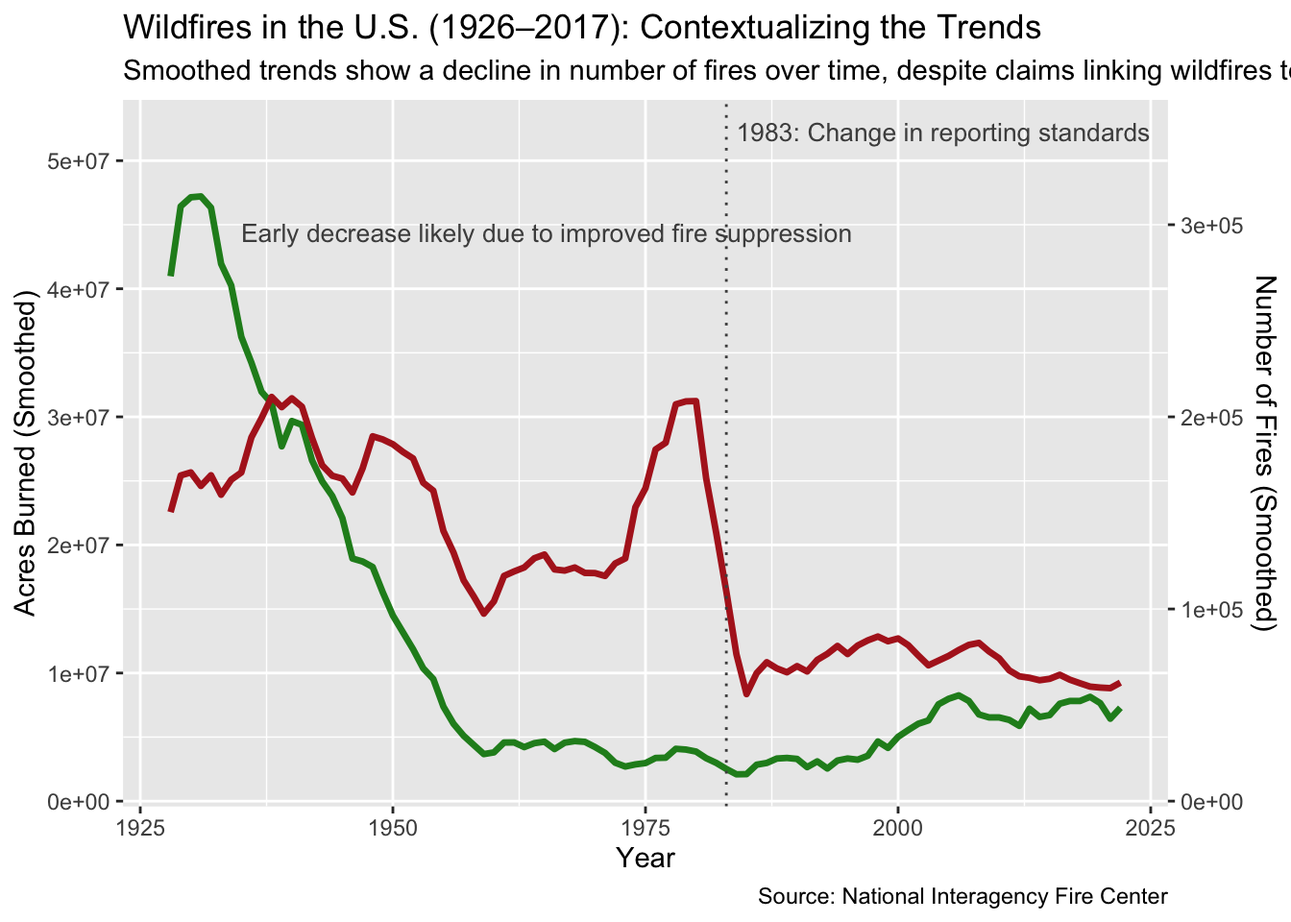
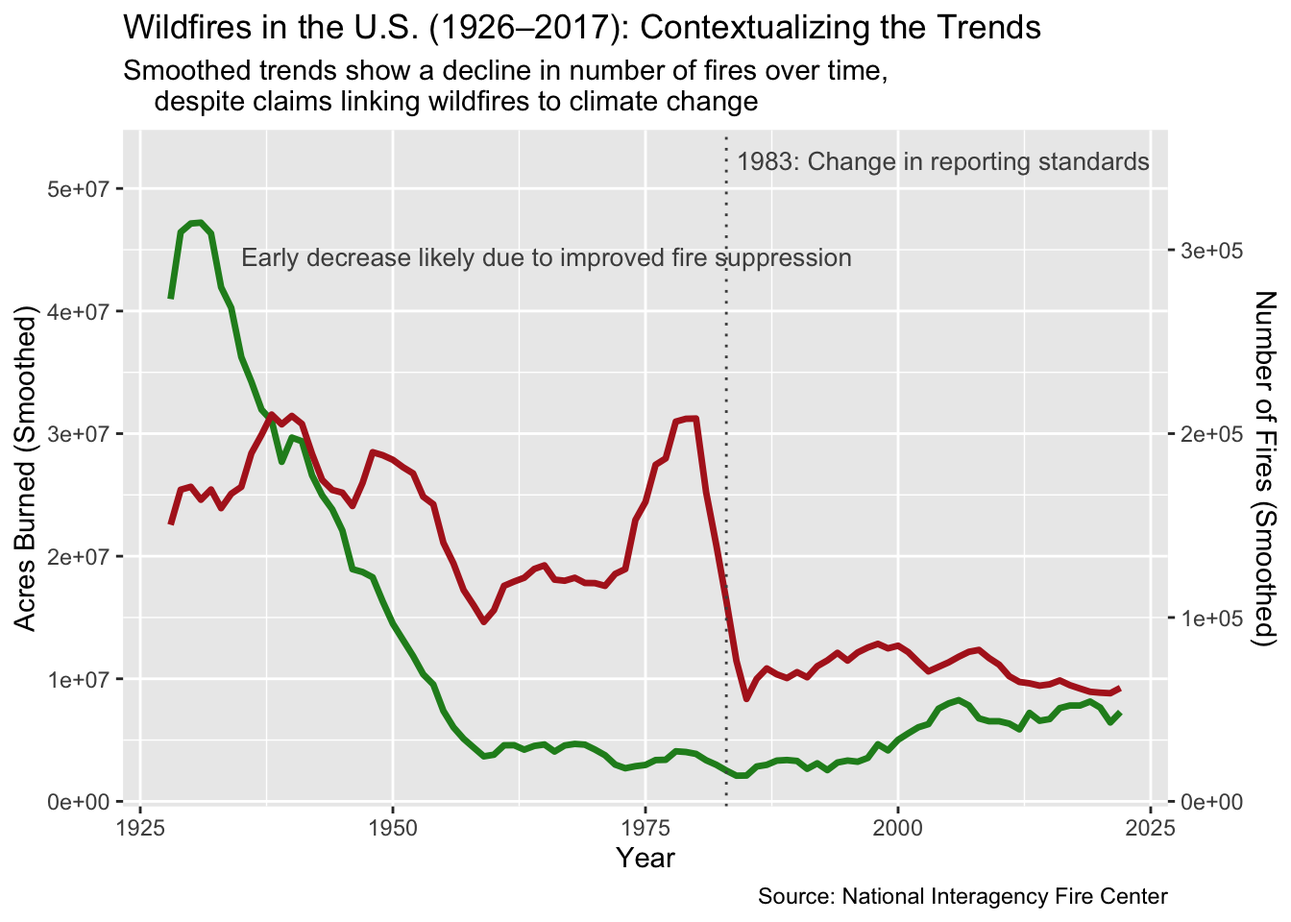
fix: change the style of names in author section

diff --git a/Project/project.html b/Project/project.html
@@ -6,7 +6,7 @@
 
 <meta name="viewport" content="width=device-width, initial-scale=1.0, user-scalable=yes">
 
-<meta name="author" content="SKYRA CHOO, TAY YONG JUN, PEH BOON YEW, HO KING HONH, SEAN LEE WEI CHUAN, MUHAMMAD SYAHMI BIN SAMRI">
+<meta name="author" content="P1 Team Mistyrose  Skyra Choo (2301185)   Tay Yong Jun (2300993)   Peh Boon Yew (2301057)   Ho King Honh (2301174)   Sean Lee Wei Chuan (2303423)   Syahmi Bin Samri (2301125)">
 
 <title>Visualizing Wildfire data in the USA (1926–2017)</title>
 <style>
@@ -90,7 +90,7 @@ pre > code.sourceCode > span > a:first-child::before { text-decoration: underlin
     <div>
     <div class="quarto-title-meta-heading">Author</div>
     <div class="quarto-title-meta-contents">
-             <p>SKYRA CHOO, TAY YONG JUN, PEH BOON YEW, HO KING HONH, SEAN LEE WEI CHUAN, MUHAMMAD SYAHMI BIN SAMRI </p>
+             <p><u>P1 Team Mistyrose</u> <br> Skyra Choo (2301185) <br> Tay Yong Jun (2300993) <br> Peh Boon Yew (2301057) <br> Ho King Honh (2301174) <br> Sean Lee Wei Chuan (2303423) <br> Syahmi Bin Samri (2301125) </p>
           </div>
   </div>
     
@@ -108,33 +108,13 @@ pre > code.sourceCode > span > a:first-child::before { text-decoration: underlin
 <p>Help me on this</p>
 <p>The following code requires the following packages:</p>
 <div class="cell">
-<div class="sourceCode cell-code" id="cb1"><pre class="sourceCode r code-with-copy"><code class="sourceCode r"><span id="cb1-1"><a href="#cb1-1" aria-hidden="true" tabindex="-1"></a><span class="fu">library</span>(tidyverse)</span></code><button title="Copy to Clipboard" class="code-copy-button"><i class="bi"></i></button></pre></div>
-<div class="cell-output cell-output-stderr">
-<pre><code>── Attaching core tidyverse packages ──────────────────────── tidyverse 2.0.0 ──
-✔ dplyr     1.1.4     ✔ readr     2.1.5
-✔ forcats   1.0.0     ✔ stringr   1.5.1
-✔ ggplot2   3.5.2     ✔ tibble    3.2.1
-✔ lubridate 1.9.4     ✔ tidyr     1.3.1
-✔ purrr     1.0.4     
-── Conflicts ────────────────────────────────────────── tidyverse_conflicts() ──
-✖ dplyr::filter() masks stats::filter()
-✖ dplyr::lag()    masks stats::lag()
-ℹ Use the conflicted package (&lt;http://conflicted.r-lib.org/&gt;) to force all conflicts to become errors</code></pre>
-</div>
-<div class="sourceCode cell-code" id="cb3"><pre class="sourceCode r code-with-copy"><code class="sourceCode r"><span id="cb3-1"><a href="#cb3-1" aria-hidden="true" tabindex="-1"></a><span class="fu">library</span>(dplyr)</span>
-<span id="cb3-2"><a href="#cb3-2" aria-hidden="true" tabindex="-1"></a><span class="fu">library</span>(knitr)</span>
-<span id="cb3-3"><a href="#cb3-3" aria-hidden="true" tabindex="-1"></a><span class="fu">library</span>(zoo)</span></code><button title="Copy to Clipboard" class="code-copy-button"><i class="bi"></i></button></pre></div>
-<div class="cell-output cell-output-stderr">
-<pre><code>
-Attaching package: 'zoo'
-
-The following objects are masked from 'package:base':
-
-    as.Date, as.Date.numeric</code></pre>
-</div>
+<div class="sourceCode cell-code" id="cb1"><pre class="sourceCode r code-with-copy"><code class="sourceCode r"><span id="cb1-1"><a href="#cb1-1" aria-hidden="true" tabindex="-1"></a><span class="fu">library</span>(tidyverse)</span>
+<span id="cb1-2"><a href="#cb1-2" aria-hidden="true" tabindex="-1"></a><span class="fu">library</span>(dplyr)</span>
+<span id="cb1-3"><a href="#cb1-3" aria-hidden="true" tabindex="-1"></a><span class="fu">library</span>(knitr)</span>
+<span id="cb1-4"><a href="#cb1-4" aria-hidden="true" tabindex="-1"></a><span class="fu">library</span>(zoo)</span></code><button title="Copy to Clipboard" class="code-copy-button"><i class="bi"></i></button></pre></div>
 </div>
 <div class="cell">
-<div class="sourceCode cell-code" id="cb5"><pre class="sourceCode r code-with-copy"><code class="sourceCode r"><span id="cb5-1"><a href="#cb5-1" aria-hidden="true" tabindex="-1"></a><span class="fu">include_graphics</span>(<span class="st">"images/previous_visualization.png"</span>)</span></code><button title="Copy to Clipboard" class="code-copy-button"><i class="bi"></i></button></pre></div>
+<div class="sourceCode cell-code" id="cb2"><pre class="sourceCode r code-with-copy"><code class="sourceCode r"><span id="cb2-1"><a href="#cb2-1" aria-hidden="true" tabindex="-1"></a><span class="fu">include_graphics</span>(<span class="st">"images/previous_visualization.png"</span>)</span></code><button title="Copy to Clipboard" class="code-copy-button"><i class="bi"></i></button></pre></div>
 <div class="cell-output-display">
 <div id="fig-previous-visualization" class="quarto-float quarto-figure quarto-figure-center anchored">
 <figure class="quarto-float quarto-float-fig figure">
@@ -157,7 +137,7 @@ Figure&nbsp;1: Help me on this
 <section id="load-data" class="level1">
 <h1>Load Data</h1>
 <div class="cell">
-<div class="sourceCode cell-code" id="cb6"><pre class="sourceCode r code-with-copy"><code class="sourceCode r"><span id="cb6-1"><a href="#cb6-1" aria-hidden="true" tabindex="-1"></a>wildfires <span class="ot">&lt;-</span> <span class="fu">read_csv</span>(<span class="st">"wildfire_data.csv"</span>)</span></code><button title="Copy to Clipboard" class="code-copy-button"><i class="bi"></i></button></pre></div>
+<div class="sourceCode cell-code" id="cb3"><pre class="sourceCode r code-with-copy"><code class="sourceCode r"><span id="cb3-1"><a href="#cb3-1" aria-hidden="true" tabindex="-1"></a>wildfires <span class="ot">&lt;-</span> <span class="fu">read_csv</span>(<span class="st">"wildfire_data.csv"</span>)</span></code><button title="Copy to Clipboard" class="code-copy-button"><i class="bi"></i></button></pre></div>
 <div class="cell-output cell-output-stderr">
 <pre><code>Rows: 99 Columns: 3
 ── Column specification ────────────────────────────────────────────────────────
@@ -167,7 +147,7 @@ dbl (3): Year, Fires, Acres
 ℹ Use `spec()` to retrieve the full column specification for this data.
 ℹ Specify the column types or set `show_col_types = FALSE` to quiet this message.</code></pre>
 </div>
-<div class="sourceCode cell-code" id="cb8"><pre class="sourceCode r code-with-copy"><code class="sourceCode r"><span id="cb8-1"><a href="#cb8-1" aria-hidden="true" tabindex="-1"></a>wildfires</span></code><button title="Copy to Clipboard" class="code-copy-button"><i class="bi"></i></button></pre></div>
+<div class="sourceCode cell-code" id="cb5"><pre class="sourceCode r code-with-copy"><code class="sourceCode r"><span id="cb5-1"><a href="#cb5-1" aria-hidden="true" tabindex="-1"></a>wildfires</span></code><button title="Copy to Clipboard" class="code-copy-button"><i class="bi"></i></button></pre></div>
 <div class="cell-output cell-output-stdout">
 <pre><code># A tibble: 99 × 3
     Year Fires    Acres
@@ -195,13 +175,13 @@ dbl (3): Year, Fires, Acres
 </ul>
 <p>The fill = NA argument ensures that values at the boundaries, where a full 5 - year window isn’t available, are left as missing. The align = “center” option centers the moving window on each year, providing a balanced smoothing effect.</p>
 <div class="cell">
-<div class="sourceCode cell-code" id="cb10"><pre class="sourceCode r code-with-copy"><code class="sourceCode r"><span id="cb10-1"><a href="#cb10-1" aria-hidden="true" tabindex="-1"></a>wildfires <span class="ot">&lt;-</span> wildfires <span class="sc">%&gt;%</span></span>
-<span id="cb10-2"><a href="#cb10-2" aria-hidden="true" tabindex="-1"></a>  <span class="fu">mutate</span>(</span>
-<span id="cb10-3"><a href="#cb10-3" aria-hidden="true" tabindex="-1"></a>    <span class="at">Fires_MA =</span> <span class="fu">rollmean</span>(Fires, <span class="dv">5</span>, <span class="at">fill =</span> <span class="cn">NA</span>, <span class="at">align =</span> <span class="st">"center"</span>),</span>
-<span id="cb10-4"><a href="#cb10-4" aria-hidden="true" tabindex="-1"></a>    <span class="at">Acres_MA =</span> <span class="fu">rollmean</span>(Acres, <span class="dv">5</span>, <span class="at">fill =</span> <span class="cn">NA</span>, <span class="at">align =</span> <span class="st">"center"</span>)</span>
-<span id="cb10-5"><a href="#cb10-5" aria-hidden="true" tabindex="-1"></a>  )</span>
-<span id="cb10-6"><a href="#cb10-6" aria-hidden="true" tabindex="-1"></a></span>
-<span id="cb10-7"><a href="#cb10-7" aria-hidden="true" tabindex="-1"></a>wildfires</span></code><button title="Copy to Clipboard" class="code-copy-button"><i class="bi"></i></button></pre></div>
+<div class="sourceCode cell-code" id="cb7"><pre class="sourceCode r code-with-copy"><code class="sourceCode r"><span id="cb7-1"><a href="#cb7-1" aria-hidden="true" tabindex="-1"></a>wildfires <span class="ot">&lt;-</span> wildfires <span class="sc">%&gt;%</span></span>
+<span id="cb7-2"><a href="#cb7-2" aria-hidden="true" tabindex="-1"></a>  <span class="fu">mutate</span>(</span>
+<span id="cb7-3"><a href="#cb7-3" aria-hidden="true" tabindex="-1"></a>    <span class="at">Fires_MA =</span> <span class="fu">rollmean</span>(Fires, <span class="dv">5</span>, <span class="at">fill =</span> <span class="cn">NA</span>, <span class="at">align =</span> <span class="st">"center"</span>),</span>
+<span id="cb7-4"><a href="#cb7-4" aria-hidden="true" tabindex="-1"></a>    <span class="at">Acres_MA =</span> <span class="fu">rollmean</span>(Acres, <span class="dv">5</span>, <span class="at">fill =</span> <span class="cn">NA</span>, <span class="at">align =</span> <span class="st">"center"</span>)</span>
+<span id="cb7-5"><a href="#cb7-5" aria-hidden="true" tabindex="-1"></a>  )</span>
+<span id="cb7-6"><a href="#cb7-6" aria-hidden="true" tabindex="-1"></a></span>
+<span id="cb7-7"><a href="#cb7-7" aria-hidden="true" tabindex="-1"></a>wildfires</span></code><button title="Copy to Clipboard" class="code-copy-button"><i class="bi"></i></button></pre></div>
 <div class="cell-output cell-output-stdout">
 <pre><code># A tibble: 99 × 5
     Year Fires    Acres Fires_MA Acres_MA
@@ -220,10 +200,10 @@ dbl (3): Year, Fires, Acres
 </div>
 </div>
 <div class="cell">
-<div class="sourceCode cell-code" id="cb12"><pre class="sourceCode r code-with-copy"><code class="sourceCode r"><span id="cb12-1"><a href="#cb12-1" aria-hidden="true" tabindex="-1"></a>wildfires_clean <span class="ot">&lt;-</span> wildfires <span class="sc">%&gt;%</span></span>
-<span id="cb12-2"><a href="#cb12-2" aria-hidden="true" tabindex="-1"></a>  <span class="fu">drop_na</span>(Fires_MA, Acres_MA)</span>
-<span id="cb12-3"><a href="#cb12-3" aria-hidden="true" tabindex="-1"></a></span>
-<span id="cb12-4"><a href="#cb12-4" aria-hidden="true" tabindex="-1"></a>wildfires_clean</span></code><button title="Copy to Clipboard" class="code-copy-button"><i class="bi"></i></button></pre></div>
+<div class="sourceCode cell-code" id="cb9"><pre class="sourceCode r code-with-copy"><code class="sourceCode r"><span id="cb9-1"><a href="#cb9-1" aria-hidden="true" tabindex="-1"></a>wildfires_clean <span class="ot">&lt;-</span> wildfires <span class="sc">%&gt;%</span></span>
+<span id="cb9-2"><a href="#cb9-2" aria-hidden="true" tabindex="-1"></a>  <span class="fu">drop_na</span>(Fires_MA, Acres_MA)</span>
+<span id="cb9-3"><a href="#cb9-3" aria-hidden="true" tabindex="-1"></a></span>
+<span id="cb9-4"><a href="#cb9-4" aria-hidden="true" tabindex="-1"></a>wildfires_clean</span></code><button title="Copy to Clipboard" class="code-copy-button"><i class="bi"></i></button></pre></div>
 <div class="cell-output cell-output-stdout">
 <pre><code># A tibble: 95 × 5
     Year Fires    Acres Fires_MA Acres_MA
@@ -242,15 +222,15 @@ dbl (3): Year, Fires, Acres
 </div>
 </div>
 <div class="cell">
-<div class="sourceCode cell-code" id="cb14"><pre class="sourceCode r code-with-copy"><code class="sourceCode r"><span id="cb14-1"><a href="#cb14-1" aria-hidden="true" tabindex="-1"></a>base_plot <span class="ot">&lt;-</span> <span class="fu">ggplot</span>(wildfires_clean, <span class="fu">aes</span>(<span class="at">x =</span> Year)) <span class="sc">+</span></span>
-<span id="cb14-2"><a href="#cb14-2" aria-hidden="true" tabindex="-1"></a>  <span class="fu">geom_line</span>(<span class="fu">aes</span>(<span class="at">y =</span> Acres_MA),</span>
-<span id="cb14-3"><a href="#cb14-3" aria-hidden="true" tabindex="-1"></a>            <span class="at">color =</span> <span class="st">"forestgreen"</span>,</span>
-<span id="cb14-4"><a href="#cb14-4" aria-hidden="true" tabindex="-1"></a>            <span class="at">linewidth =</span> <span class="fl">1.2</span>) <span class="sc">+</span></span>
-<span id="cb14-5"><a href="#cb14-5" aria-hidden="true" tabindex="-1"></a>  <span class="fu">geom_line</span>(<span class="fu">aes</span>(<span class="at">y =</span> Fires_MA <span class="sc">*</span> <span class="dv">150</span>),</span>
-<span id="cb14-6"><a href="#cb14-6" aria-hidden="true" tabindex="-1"></a>          <span class="at">color =</span> <span class="st">"firebrick"</span>,</span>
-<span id="cb14-7"><a href="#cb14-7" aria-hidden="true" tabindex="-1"></a><span class="at">linewidth =</span> <span class="fl">1.2</span>)</span>
-<span id="cb14-8"><a href="#cb14-8" aria-hidden="true" tabindex="-1"></a></span>
-<span id="cb14-9"><a href="#cb14-9" aria-hidden="true" tabindex="-1"></a>base_plot</span></code><button title="Copy to Clipboard" class="code-copy-button"><i class="bi"></i></button></pre></div>
+<div class="sourceCode cell-code" id="cb11"><pre class="sourceCode r code-with-copy"><code class="sourceCode r"><span id="cb11-1"><a href="#cb11-1" aria-hidden="true" tabindex="-1"></a>base_plot <span class="ot">&lt;-</span> <span class="fu">ggplot</span>(wildfires_clean, <span class="fu">aes</span>(<span class="at">x =</span> Year)) <span class="sc">+</span></span>
+<span id="cb11-2"><a href="#cb11-2" aria-hidden="true" tabindex="-1"></a>  <span class="fu">geom_line</span>(<span class="fu">aes</span>(<span class="at">y =</span> Acres_MA),</span>
+<span id="cb11-3"><a href="#cb11-3" aria-hidden="true" tabindex="-1"></a>            <span class="at">color =</span> <span class="st">"forestgreen"</span>,</span>
+<span id="cb11-4"><a href="#cb11-4" aria-hidden="true" tabindex="-1"></a>            <span class="at">linewidth =</span> <span class="fl">1.2</span>) <span class="sc">+</span></span>
+<span id="cb11-5"><a href="#cb11-5" aria-hidden="true" tabindex="-1"></a>  <span class="fu">geom_line</span>(<span class="fu">aes</span>(<span class="at">y =</span> Fires_MA <span class="sc">*</span> <span class="dv">150</span>),</span>
+<span id="cb11-6"><a href="#cb11-6" aria-hidden="true" tabindex="-1"></a>            <span class="at">color =</span> <span class="st">"firebrick"</span>,</span>
+<span id="cb11-7"><a href="#cb11-7" aria-hidden="true" tabindex="-1"></a>            <span class="at">linewidth =</span> <span class="fl">1.2</span>)</span>
+<span id="cb11-8"><a href="#cb11-8" aria-hidden="true" tabindex="-1"></a></span>
+<span id="cb11-9"><a href="#cb11-9" aria-hidden="true" tabindex="-1"></a>base_plot</span></code><button title="Copy to Clipboard" class="code-copy-button"><i class="bi"></i></button></pre></div>
 <div class="cell-output-display">
 <div>
 <figure class="figure">
@@ -260,29 +240,29 @@ dbl (3): Year, Fires, Acres
 </div>
 </div>
 <div class="cell">
-<div class="sourceCode cell-code" id="cb15"><pre class="sourceCode r code-with-copy"><code class="sourceCode r"><span id="cb15-1"><a href="#cb15-1" aria-hidden="true" tabindex="-1"></a>annotated_plot <span class="ot">&lt;-</span> base_plot <span class="sc">+</span> <span class="fu">geom_vline</span>(<span class="at">xintercept =</span> <span class="dv">1983</span>,</span>
-<span id="cb15-2"><a href="#cb15-2" aria-hidden="true" tabindex="-1"></a>                                         <span class="at">linetype =</span> <span class="st">"dotted"</span>,</span>
-<span id="cb15-3"><a href="#cb15-3" aria-hidden="true" tabindex="-1"></a><span class="at">color =</span> <span class="st">"gray30"</span>) <span class="sc">+</span></span>
-<span id="cb15-4"><a href="#cb15-4" aria-hidden="true" tabindex="-1"></a><span class="fu">annotate</span>(</span>
-<span id="cb15-5"><a href="#cb15-5" aria-hidden="true" tabindex="-1"></a><span class="st">"text"</span>,</span>
-<span id="cb15-6"><a href="#cb15-6" aria-hidden="true" tabindex="-1"></a><span class="at">x =</span> <span class="dv">1984</span>,</span>
-<span id="cb15-7"><a href="#cb15-7" aria-hidden="true" tabindex="-1"></a><span class="at">y =</span> <span class="fu">max</span>(wildfires<span class="sc">$</span>Acres, <span class="at">na.rm =</span> <span class="cn">TRUE</span>),</span>
-<span id="cb15-8"><a href="#cb15-8" aria-hidden="true" tabindex="-1"></a><span class="at">label =</span> <span class="st">"1983: Change in reporting standards"</span>,</span>
-<span id="cb15-9"><a href="#cb15-9" aria-hidden="true" tabindex="-1"></a><span class="at">hjust =</span> <span class="dv">0</span>,</span>
-<span id="cb15-10"><a href="#cb15-10" aria-hidden="true" tabindex="-1"></a><span class="at">size =</span> <span class="fl">3.5</span>,</span>
-<span id="cb15-11"><a href="#cb15-11" aria-hidden="true" tabindex="-1"></a><span class="at">color =</span> <span class="st">"gray30"</span></span>
-<span id="cb15-12"><a href="#cb15-12" aria-hidden="true" tabindex="-1"></a>) <span class="sc">+</span></span>
-<span id="cb15-13"><a href="#cb15-13" aria-hidden="true" tabindex="-1"></a><span class="fu">annotate</span>(</span>
-<span id="cb15-14"><a href="#cb15-14" aria-hidden="true" tabindex="-1"></a><span class="st">"text"</span>,</span>
-<span id="cb15-15"><a href="#cb15-15" aria-hidden="true" tabindex="-1"></a><span class="at">x =</span> <span class="dv">1935</span>,</span>
-<span id="cb15-16"><a href="#cb15-16" aria-hidden="true" tabindex="-1"></a><span class="at">y =</span> <span class="fu">max</span>(wildfires<span class="sc">$</span>Acres, <span class="at">na.rm =</span> <span class="cn">TRUE</span>) <span class="sc">*</span> <span class="fl">0.85</span>,</span>
-<span id="cb15-17"><a href="#cb15-17" aria-hidden="true" tabindex="-1"></a><span class="at">label =</span> <span class="st">"Early decrease likely due to improved fire suppression"</span>,</span>
-<span id="cb15-18"><a href="#cb15-18" aria-hidden="true" tabindex="-1"></a><span class="at">size =</span> <span class="fl">3.5</span>,</span>
-<span id="cb15-19"><a href="#cb15-19" aria-hidden="true" tabindex="-1"></a><span class="at">hjust =</span> <span class="dv">0</span>,</span>
-<span id="cb15-20"><a href="#cb15-20" aria-hidden="true" tabindex="-1"></a><span class="at">color =</span> <span class="st">"gray30"</span></span>
-<span id="cb15-21"><a href="#cb15-21" aria-hidden="true" tabindex="-1"></a>)</span>
-<span id="cb15-22"><a href="#cb15-22" aria-hidden="true" tabindex="-1"></a></span>
-<span id="cb15-23"><a href="#cb15-23" aria-hidden="true" tabindex="-1"></a>annotated_plot</span></code><button title="Copy to Clipboard" class="code-copy-button"><i class="bi"></i></button></pre></div>
+<div class="sourceCode cell-code" id="cb12"><pre class="sourceCode r code-with-copy"><code class="sourceCode r"><span id="cb12-1"><a href="#cb12-1" aria-hidden="true" tabindex="-1"></a>annotated_plot <span class="ot">&lt;-</span> base_plot <span class="sc">+</span> <span class="fu">geom_vline</span>(<span class="at">xintercept =</span> <span class="dv">1983</span>,</span>
+<span id="cb12-2"><a href="#cb12-2" aria-hidden="true" tabindex="-1"></a>                                         <span class="at">linetype =</span> <span class="st">"dotted"</span>,</span>
+<span id="cb12-3"><a href="#cb12-3" aria-hidden="true" tabindex="-1"></a>                                         <span class="at">color =</span> <span class="st">"gray30"</span>) <span class="sc">+</span></span>
+<span id="cb12-4"><a href="#cb12-4" aria-hidden="true" tabindex="-1"></a>  <span class="fu">annotate</span>(</span>
+<span id="cb12-5"><a href="#cb12-5" aria-hidden="true" tabindex="-1"></a>    <span class="st">"text"</span>,</span>
+<span id="cb12-6"><a href="#cb12-6" aria-hidden="true" tabindex="-1"></a>    <span class="at">x =</span> <span class="dv">1984</span>,</span>
+<span id="cb12-7"><a href="#cb12-7" aria-hidden="true" tabindex="-1"></a>    <span class="at">y =</span> <span class="fu">max</span>(wildfires<span class="sc">$</span>Acres, <span class="at">na.rm =</span> <span class="cn">TRUE</span>),</span>
+<span id="cb12-8"><a href="#cb12-8" aria-hidden="true" tabindex="-1"></a>    <span class="at">label =</span> <span class="st">"1983: Change in reporting standards"</span>,</span>
+<span id="cb12-9"><a href="#cb12-9" aria-hidden="true" tabindex="-1"></a>    <span class="at">hjust =</span> <span class="dv">0</span>,</span>
+<span id="cb12-10"><a href="#cb12-10" aria-hidden="true" tabindex="-1"></a>    <span class="at">size =</span> <span class="fl">3.5</span>,</span>
+<span id="cb12-11"><a href="#cb12-11" aria-hidden="true" tabindex="-1"></a>    <span class="at">color =</span> <span class="st">"gray30"</span></span>
+<span id="cb12-12"><a href="#cb12-12" aria-hidden="true" tabindex="-1"></a>  ) <span class="sc">+</span></span>
+<span id="cb12-13"><a href="#cb12-13" aria-hidden="true" tabindex="-1"></a>  <span class="fu">annotate</span>(</span>
+<span id="cb12-14"><a href="#cb12-14" aria-hidden="true" tabindex="-1"></a>    <span class="st">"text"</span>,</span>
+<span id="cb12-15"><a href="#cb12-15" aria-hidden="true" tabindex="-1"></a>    <span class="at">x =</span> <span class="dv">1935</span>,</span>
+<span id="cb12-16"><a href="#cb12-16" aria-hidden="true" tabindex="-1"></a>    <span class="at">y =</span> <span class="fu">max</span>(wildfires<span class="sc">$</span>Acres, <span class="at">na.rm =</span> <span class="cn">TRUE</span>) <span class="sc">*</span> <span class="fl">0.85</span>,</span>
+<span id="cb12-17"><a href="#cb12-17" aria-hidden="true" tabindex="-1"></a>    <span class="at">label =</span> <span class="st">"Early decrease likely due to improved fire suppression"</span>,</span>
+<span id="cb12-18"><a href="#cb12-18" aria-hidden="true" tabindex="-1"></a>    <span class="at">size =</span> <span class="fl">3.5</span>,</span>
+<span id="cb12-19"><a href="#cb12-19" aria-hidden="true" tabindex="-1"></a>    <span class="at">hjust =</span> <span class="dv">0</span>,</span>
+<span id="cb12-20"><a href="#cb12-20" aria-hidden="true" tabindex="-1"></a>    <span class="at">color =</span> <span class="st">"gray30"</span></span>
+<span id="cb12-21"><a href="#cb12-21" aria-hidden="true" tabindex="-1"></a>  )</span>
+<span id="cb12-22"><a href="#cb12-22" aria-hidden="true" tabindex="-1"></a></span>
+<span id="cb12-23"><a href="#cb12-23" aria-hidden="true" tabindex="-1"></a>annotated_plot</span></code><button title="Copy to Clipboard" class="code-copy-button"><i class="bi"></i></button></pre></div>
 <div class="cell-output-display">
 <div>
 <figure class="figure">
@@ -292,16 +272,20 @@ dbl (3): Year, Fires, Acres
 </div>
 </div>
 <div class="cell">
-<div class="sourceCode cell-code" id="cb16"><pre class="sourceCode r code-with-copy"><code class="sourceCode r"><span id="cb16-1"><a href="#cb16-1" aria-hidden="true" tabindex="-1"></a>labelled_plot <span class="ot">&lt;-</span> annotated_plot <span class="sc">+</span> <span class="fu">scale_y_continuous</span>(<span class="at">name =</span> <span class="st">"Acres Burned (Smoothed)"</span>,</span>
-<span id="cb16-2"><a href="#cb16-2" aria-hidden="true" tabindex="-1"></a><span class="at">sec.axis =</span> <span class="fu">sec_axis</span>( <span class="sc">~</span> . <span class="sc">/</span> <span class="dv">150</span>, <span class="at">name =</span> <span class="st">"Number of Fires (Smoothed)"</span>)) <span class="sc">+</span></span>
-<span id="cb16-3"><a href="#cb16-3" aria-hidden="true" tabindex="-1"></a><span class="fu">labs</span>(</span>
-<span id="cb16-4"><a href="#cb16-4" aria-hidden="true" tabindex="-1"></a><span class="at">title =</span> <span class="st">"Wildfires in the U.S. (1926–2017): Contextualizing the Trends"</span>,</span>
-<span id="cb16-5"><a href="#cb16-5" aria-hidden="true" tabindex="-1"></a><span class="at">subtitle =</span> <span class="st">"Smoothed trends show a decline in number of fires over time, despite claims linking wildfires to climate change"</span>,</span>
-<span id="cb16-6"><a href="#cb16-6" aria-hidden="true" tabindex="-1"></a><span class="at">x =</span> <span class="st">"Year"</span>,</span>
-<span id="cb16-7"><a href="#cb16-7" aria-hidden="true" tabindex="-1"></a><span class="at">caption =</span> <span class="st">"Source: National Interagency Fire Center"</span></span>
-<span id="cb16-8"><a href="#cb16-8" aria-hidden="true" tabindex="-1"></a>)</span>
-<span id="cb16-9"><a href="#cb16-9" aria-hidden="true" tabindex="-1"></a></span>
-<span id="cb16-10"><a href="#cb16-10" aria-hidden="true" tabindex="-1"></a>labelled_plot</span></code><button title="Copy to Clipboard" class="code-copy-button"><i class="bi"></i></button></pre></div>
+<div class="sourceCode cell-code" id="cb13"><pre class="sourceCode r code-with-copy"><code class="sourceCode r"><span id="cb13-1"><a href="#cb13-1" aria-hidden="true" tabindex="-1"></a>labelled_plot <span class="ot">&lt;-</span> annotated_plot <span class="sc">+</span></span>
+<span id="cb13-2"><a href="#cb13-2" aria-hidden="true" tabindex="-1"></a>  <span class="fu">scale_y_continuous</span>(<span class="at">name =</span> <span class="st">"Acres Burned (Smoothed)"</span>,</span>
+<span id="cb13-3"><a href="#cb13-3" aria-hidden="true" tabindex="-1"></a>                     <span class="at">sec.axis =</span> <span class="fu">sec_axis</span>(</span>
+<span id="cb13-4"><a href="#cb13-4" aria-hidden="true" tabindex="-1"></a>                       <span class="sc">~</span> . <span class="sc">/</span> <span class="dv">150</span>, <span class="at">name =</span> <span class="st">"Number of Fires (Smoothed)"</span></span>
+<span id="cb13-5"><a href="#cb13-5" aria-hidden="true" tabindex="-1"></a>                     )) <span class="sc">+</span></span>
+<span id="cb13-6"><a href="#cb13-6" aria-hidden="true" tabindex="-1"></a>  <span class="fu">labs</span>(</span>
+<span id="cb13-7"><a href="#cb13-7" aria-hidden="true" tabindex="-1"></a>    <span class="at">title =</span> <span class="st">"Wildfires in the U.S. (1926–2017): Contextualizing the Trends"</span>,</span>
+<span id="cb13-8"><a href="#cb13-8" aria-hidden="true" tabindex="-1"></a>    <span class="at">subtitle =</span> <span class="st">"Smoothed trends show a decline in number of fires over time, </span></span>
+<span id="cb13-9"><a href="#cb13-9" aria-hidden="true" tabindex="-1"></a><span class="st">    despite claims linking wildfires to climate change"</span>,</span>
+<span id="cb13-10"><a href="#cb13-10" aria-hidden="true" tabindex="-1"></a>    <span class="at">x =</span> <span class="st">"Year"</span>,</span>
+<span id="cb13-11"><a href="#cb13-11" aria-hidden="true" tabindex="-1"></a>    <span class="at">caption =</span> <span class="st">"Source: National Interagency Fire Center"</span></span>
+<span id="cb13-12"><a href="#cb13-12" aria-hidden="true" tabindex="-1"></a>  )</span>
+<span id="cb13-13"><a href="#cb13-13" aria-hidden="true" tabindex="-1"></a></span>
+<span id="cb13-14"><a href="#cb13-14" aria-hidden="true" tabindex="-1"></a>labelled_plot</span></code><button title="Copy to Clipboard" class="code-copy-button"><i class="bi"></i></button></pre></div>
 <div class="cell-output-display">
 <div>
 <figure class="figure">
@@ -311,14 +295,14 @@ dbl (3): Year, Fires, Acres
 </div>
 </div>
 <div class="cell">
-<div class="sourceCode cell-code" id="cb17"><pre class="sourceCode r code-with-copy"><code class="sourceCode r"><span id="cb17-1"><a href="#cb17-1" aria-hidden="true" tabindex="-1"></a>final_plot <span class="ot">&lt;-</span> labelled_plot <span class="sc">+</span> <span class="fu">theme_minimal</span>(<span class="at">base_size =</span> <span class="dv">13</span>) <span class="sc">+</span></span>
-<span id="cb17-2"><a href="#cb17-2" aria-hidden="true" tabindex="-1"></a><span class="fu">theme</span>(</span>
-<span id="cb17-3"><a href="#cb17-3" aria-hidden="true" tabindex="-1"></a><span class="at">plot.title =</span> <span class="fu">element_text</span>(<span class="at">face =</span> <span class="st">"bold"</span>),</span>
-<span id="cb17-4"><a href="#cb17-4" aria-hidden="true" tabindex="-1"></a><span class="at">axis.title.y =</span> <span class="fu">element_text</span>(<span class="at">color =</span> <span class="st">"forestgreen"</span>),</span>
-<span id="cb17-5"><a href="#cb17-5" aria-hidden="true" tabindex="-1"></a><span class="at">axis.title.y.right =</span> <span class="fu">element_text</span>(<span class="at">color =</span> <span class="st">"firebrick"</span>)</span>
-<span id="cb17-6"><a href="#cb17-6" aria-hidden="true" tabindex="-1"></a>)</span>
-<span id="cb17-7"><a href="#cb17-7" aria-hidden="true" tabindex="-1"></a></span>
-<span id="cb17-8"><a href="#cb17-8" aria-hidden="true" tabindex="-1"></a>final_plot</span></code><button title="Copy to Clipboard" class="code-copy-button"><i class="bi"></i></button></pre></div>
+<div class="sourceCode cell-code" id="cb14"><pre class="sourceCode r code-with-copy"><code class="sourceCode r"><span id="cb14-1"><a href="#cb14-1" aria-hidden="true" tabindex="-1"></a>final_plot <span class="ot">&lt;-</span> labelled_plot <span class="sc">+</span> <span class="fu">theme_minimal</span>(<span class="at">base_size =</span> <span class="dv">13</span>) <span class="sc">+</span></span>
+<span id="cb14-2"><a href="#cb14-2" aria-hidden="true" tabindex="-1"></a>  <span class="fu">theme</span>(</span>
+<span id="cb14-3"><a href="#cb14-3" aria-hidden="true" tabindex="-1"></a>    <span class="at">plot.title =</span> <span class="fu">element_text</span>(<span class="at">face =</span> <span class="st">"bold"</span>),</span>
+<span id="cb14-4"><a href="#cb14-4" aria-hidden="true" tabindex="-1"></a>    <span class="at">axis.title.y =</span> <span class="fu">element_text</span>(<span class="at">color =</span> <span class="st">"forestgreen"</span>),</span>
+<span id="cb14-5"><a href="#cb14-5" aria-hidden="true" tabindex="-1"></a>    <span class="at">axis.title.y.right =</span> <span class="fu">element_text</span>(<span class="at">color =</span> <span class="st">"firebrick"</span>)</span>
+<span id="cb14-6"><a href="#cb14-6" aria-hidden="true" tabindex="-1"></a>  )</span>
+<span id="cb14-7"><a href="#cb14-7" aria-hidden="true" tabindex="-1"></a></span>
+<span id="cb14-8"><a href="#cb14-8" aria-hidden="true" tabindex="-1"></a>final_plot</span></code><button title="Copy to Clipboard" class="code-copy-button"><i class="bi"></i></button></pre></div>
 <div class="cell-output-display">
 <div>
 <figure class="figure">
